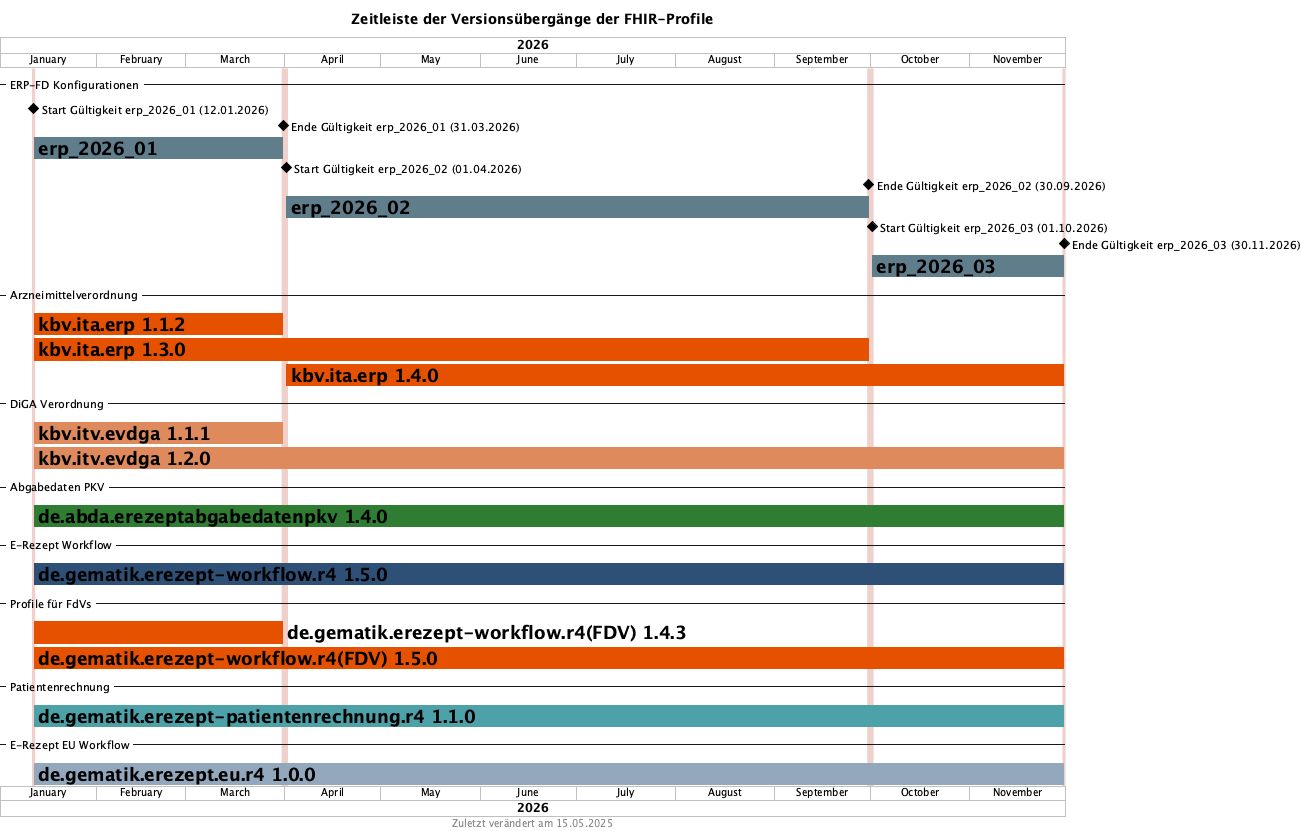
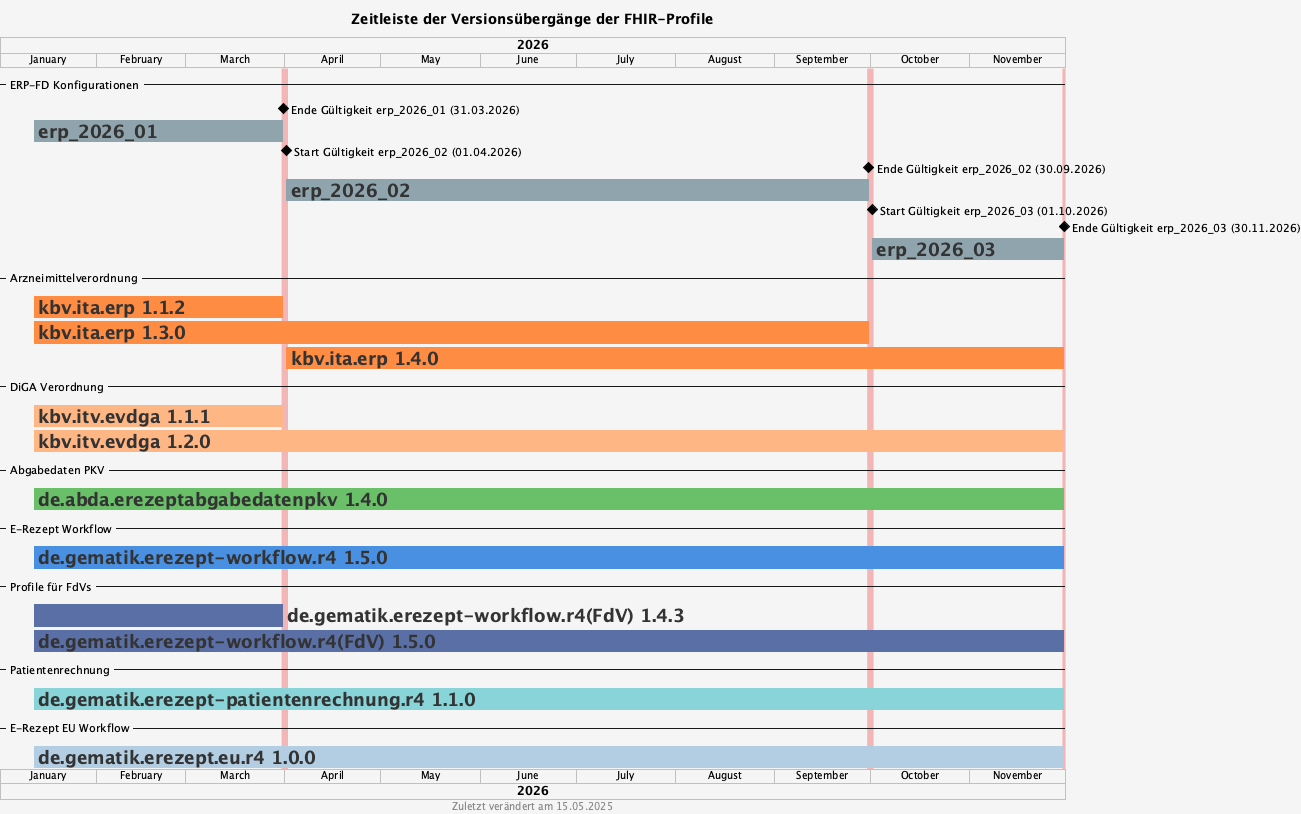
fixes and improvements

diff --git a/resources/scripts/fhir-timeline-build.py b/resources/scripts/fhir-timeline-build.py
@@ -121,36 +121,30 @@ def generate_gantt(configurations, package_mappings):
     # Start the Gantt diagram
     puml = ["@startgantt"]
 
-    # Add color definitions
-    puml.append("!define kbvcolor #e65100")
-    puml.append("!define evdgacolor #df8a5d")
-    puml.append("!define davcolor #2e7d32")
-    puml.append("!define gematikcolor #2E5077")
-    puml.append("!define gematikcolor_fdv #213555")
-    puml.append("!define gematikcolor_patrn #4DA1A9")
-    puml.append("!define gematikcolor_eu #93a8bc")
-    puml.append("!define datelinecolor #EFD0CA")  # Updated dateline color
-    puml.append("!define erpfdcolor #607D8B")  # New color for ERP-FD Konfigurationen
-
-    # Map package names to colors
-    package_colors = {
-        "kbv.ita.erp": "kbvcolor",
-        "kbv.itv.evdga": "evdgacolor",
-        "de.gematik.erezept-workflow.r4": "gematikcolor",
-        "de.gematik.erezept-workflow.r4.FDV": "gematikcolor_fdv",
-        "de.gematik.erezept-patientenrechnung.r4": "gematikcolor_patrn",
-        "de.gematik.erezept.eu.r4": "gematikcolor_eu",
-        "de.abda.erezeptabgabedatenpkv": "davcolor"
-    }
-
-    # Add style and metadata
+    
+    # Add updated color definitions
+    puml.append("!define kbvcolor #ff8c42")
+    puml.append("!define evdgacolor #ffb685")
+    puml.append("!define davcolor #6abf69")
+    puml.append("!define gematikcolor #4a90e2")
+    puml.append("!define gematikcolor_fdv #5a6fa5")
+    puml.append("!define gematikcolor_patrn #88d4d8")
+    puml.append("!define gematikcolor_eu #b3cde3")
+    puml.append("!define erpfdcolor #90a4ae")
     puml.append("")
+    puml.append("!define datelinecolor #f2b6b6")
+    puml.append("")
+
+    # Add updated style and metadata
     puml.append("<style>")
+    puml.append("document {")
+    puml.append("   BackGroundColor #f5f5f5")
+    puml.append("}")
     puml.append("ganttDiagram {")
     puml.append("   task {")
     puml.append("      BackGroundColor GreenYellow")  # Default task color
     puml.append("      LineColor Green")
-    puml.append("      FontColor black")
+    puml.append("      FontColor #333333")
     puml.append("      FontSize 18")
     puml.append("      FontStyle bold")
     puml.append("   }")
@@ -160,6 +154,17 @@ def generate_gantt(configurations, package_mappings):
     puml.append("title Zeitleiste der Versionsübergänge der FHIR-Profile")
     puml.append('footer Zuletzt verändert am %date("dd.MM.yyyy")')
     puml.append("")
+
+    # Map package names to colors
+    package_colors = {
+        "kbv.ita.erp": "kbvcolor",
+        "kbv.itv.evdga": "evdgacolor",
+        "de.gematik.erezept-workflow.r4": "gematikcolor",
+        "de.gematik.erezept-workflow.r4(FdV)": "gematikcolor_fdv",
+        "de.gematik.erezept-patientenrechnung.r4": "gematikcolor_patrn",
+        "de.gematik.erezept.eu.r4": "gematikcolor_eu",
+        "de.abda.erezeptabgabedatenpkv": "davcolor"
+    }
 
     # Set project scale and start date with padding
     first_valid_from = datetime.strptime(configurations[0]["validFrom"], "%Y-%m-%d")
@@ -176,12 +181,13 @@ def generate_gantt(configurations, package_mappings):
     # Add configurations section
     puml.append("-- ERP-FD Konfigurationen --")
     puml.append("")
-    for config in configurations:
+    for index, config in enumerate(configurations):
         valid_from = config["validFrom"]
         valid_to = config.get("validTo", None)
 
         # Add date markers
-        puml.append(f"{valid_from} is colored datelinecolor")
+        if index != 0:
+            puml.append(f"{valid_from} is colored datelinecolor")
         if valid_to:
             puml.append(f"{valid_to} is colored datelinecolor")
         else:
@@ -193,7 +199,8 @@ def generate_gantt(configurations, package_mappings):
             f"[Start Gültigkeit {config['name']} ({valid_from[8:10]}.{valid_from[5:7]}.{valid_from[:4]})] "
             f"happens on {valid_from}"
         )
-        puml.append(start_marker)
+        if index != 0:
+            puml.append(start_marker)
         if valid_to:
             end_marker = (
                 f"[Ende Gültigkeit {config['name']} ({valid_to[8:10]}.{valid_to[5:7]}.{valid_to[:4]})] "

diff --git a/resources/scripts/fhirversion-table-builder.py b/resources/scripts/fhirversion-table-builder.py
@@ -113,7 +113,7 @@ def generate_transition_overview(configurations, output_file):
     version_data = {}
 
     # Iterate over configurations to collect package/version data
-    for config in configurations:
+    for index, config in enumerate(configurations):
         valid_from = config["validFrom"]
         valid_to = config.get("validTo", None)
 
@@ -132,11 +132,13 @@ def generate_transition_overview(configurations, output_file):
 
     # Process the version data to determine the correct gültig bis (valid_to)
     overview_entries = []
+    first_config = configurations[0]
+    first_config_valid_from = first_config["validFrom"]
     last_config = configurations[-1]
     last_config_valid_from = last_config["validFrom"]
 
     for (package_name, version), dates in version_data.items():
-        valid_from = dates["valid_from"]
+        valid_from = dates["valid_from"] if dates["valid_from"] != first_config_valid_from else "-"
         valid_to = dates["valid_to"]
 
         # If the version appears in the last configuration without a validTo, set gültig bis to "-"
@@ -144,7 +146,10 @@ def generate_transition_overview(configurations, output_file):
             valid_to = "-"
 
         # Format the dates
-        valid_from_formatted = datetime.strptime(valid_from, "%Y-%m-%d").strftime("%d.%m.%Y")
+        valid_from_formatted = (
+            "-" if valid_from in [None, "-"] else datetime.strptime(valid_from, "%Y-%m-%d").strftime("%d.%m.%Y")
+        )
+        
         valid_to_formatted = (
             "-" if valid_to in [None, "-"] else datetime.strptime(valid_to, "%Y-%m-%d").strftime("%d.%m.%Y")
         )
